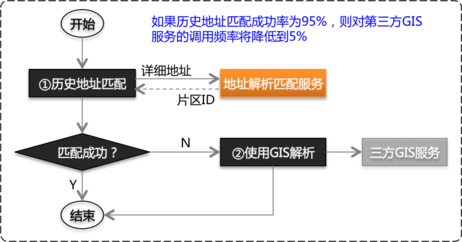
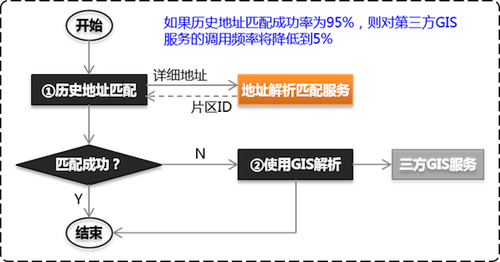
更新备注

diff --git a/README.md b/README.md
@@ -121,7 +121,7 @@ bin/start.sh
 
 服务启动成功后，通过`http://localhost:8000/test/address/find/北京海淀区苏州街29号院18号楼维亚大厦`访问。<br>
 Demo服务运行效果如下：<br>
-![使用相似度搜索匹配地址Demo Service](images/demo-screenshot.jpg)
+![使用相似度搜索匹配地址Demo Service](images/demo-screenshot.png)
 
 Demo服务使用的Dubbox的REST接口，服务启动时会监听2个端口：`8080`和`8000`。
 如果需要修改为其他端口号，请修改以下文件：
